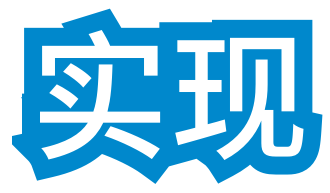
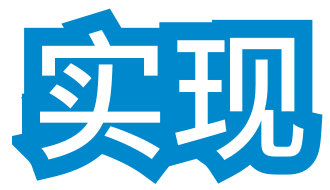
60px

diff --git a/production.html b/production.html
@@ -130,7 +130,7 @@
 		display: inline-block;
 	}
 	footer.global .sponsor ul li img {
-		zoom: 0.25;
+		max-height: 60px;
 	}
 	</style>
 	<style type="text/css">
@@ -262,7 +262,7 @@
 						<p>留下邮箱地址，当开放预订时即可收到邮件邀请。</p>
 						<p><del>其实后台还没搭起来，不要上当了（233</del></p>
 						<div class="form-preorder">
-							<button type="button" class="btn btn-submit" id="submit-email-preorder" onclick="submitEmailPreorder()">登记</button><input type="email" placeholder="rei.ayanami@nerv.arpa" id="input-email" datastate="000">
+							<button type="button" class="btn btn-submit" id="submit-email-preorder" onclick="submitEmailPreorder()">登记</button><input type="email" placeholder="asuka@example.com" id="input-email" datastate="000">
 						</div>
 						<div class="message-line" id="email-preorder-server-back-message"></div>
 					</div>
